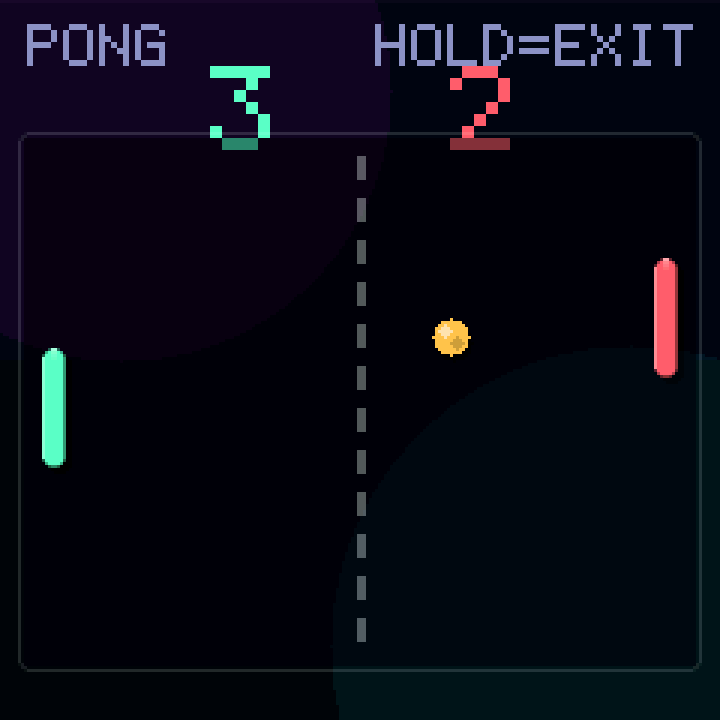
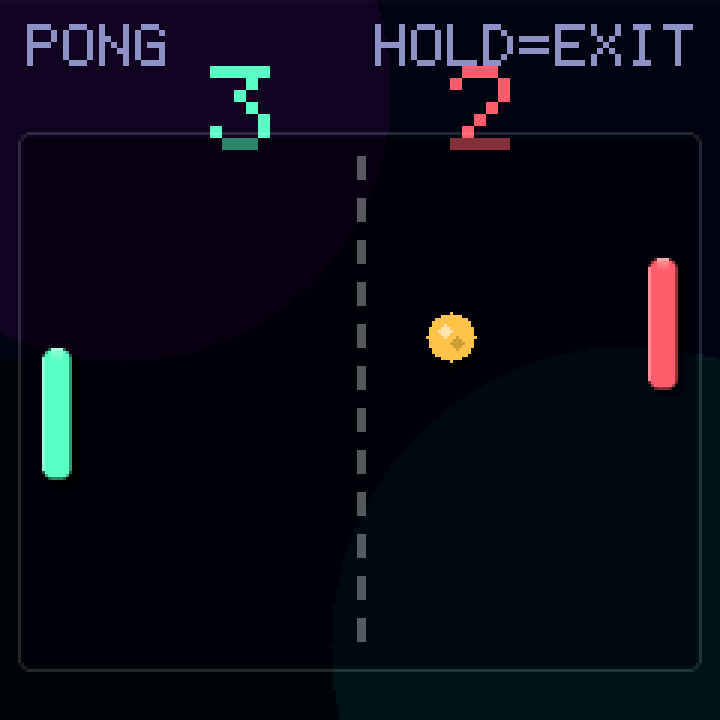
feat: everything as large as 240px allows, and a missing ceiling in Jumper
Measured rather than guessed. A 1.3in panel is 240px over 23.4mm, so at 4ft
the WHOLE SCREEN subtends 66 arcmin - about a thumbnail at arm's length - and
the largest text on it is 7.7. No sprite size fixes that; the honest design
distance for a desk dongle is one to two feet, where a 2048 tile is 34-51
arcmin and the big numerals clear the 20 that comfortable reading wants.

Within that, everything went to the largest the screen holds:

  jumper    12x9 of 20px, was 16x12 of 15 - exactly 240 wide and exactly the
            180 the HUD leaves, so it is the ceiling. Player 11x13 -> 15x17,
            coins 10px -> 14, and the physics re-solved for the bigger tile.
  invaders  alien 18x14 -> 24x18, cannon 22 -> 28, shots 3x8 -> 4x10. Eight
            columns of 24 is 224 in a 228 field, which is the ceiling there.
  pong      ball 12px -> 16, paddle 8x40 -> 10x44.
  pacman    dot 4px -> 6. It was the smallest thing in any game.
  breakout  ball 6px -> 10, which had been the smallest since it was written.

THE BUG. Jumper's hits() guarded x against the screen edges and not y, and
at() reports everything above row 0 as open air - so a jump from the top
platform carried the player seventeen pixels above the view and drew the
sprite over the HUD. Nothing stopped it because nothing was looking. y < 0 is
a ceiling now.

diff --git a/src/games/jumper/jumper.c b/src/games/jumper/jumper.c
@@ -33,9 +33,17 @@
 
 /* ---- geometry ----------------------------------------------------------- */
 
-#define TILE 15
-#define COLS 16
-#define ROWS 12
+/*
+ * 20px tiles over 12x9, not 15px over 16x12.
+ *
+ * A 240px panel read from across a desk is the constraint, not the level
+ * design: fewer, larger cells are the only lever there is. 12 columns of 20px
+ * is exactly 240 wide and nine rows is exactly the 180 the HUD leaves, so this
+ * is the largest tile the screen can hold without cropping.
+ */
+#define TILE 20
+#define COLS 12
+#define ROWS 9
 
 #define VIEW_X 0
 #define VIEW_Y 44
@@ -55,14 +63,14 @@ typedef int32_t fix_t;
  * no point running physics faster than anything can be shown. 2.26 tiles of
  * jump, 4.8 across, 12.5 tiles a second of running.
  */
-#define GRAVITY 132     /* 0.51 px/tick^2 */
-#define JUMP_V (-1580)  /* -6.2 px/tick   */
-#define RUN_V 768       /* 3.0 px/tick    */
+#define GRAVITY 133     /* 0.52 px/tick^2 */
+#define JUMP_V (-1733)  /* -6.8 px/tick   */
+#define RUN_V 896       /* 3.5 px/tick    */
 #define MAX_FALL 2048   /* 8.0 px/tick    */
 #define ENEMY_V 192     /* 0.75 px/tick   */
 
-#define PLAYER_W 11
-#define PLAYER_H 13
+#define PLAYER_W 15
+#define PLAYER_H 17
 #define MAX_ENEMIES 4
 #define LIVES 3
 
@@ -77,18 +85,15 @@ typedef int32_t fix_t;
  * top. Collect every coin and reach the flag.
  */
 static const char *const level[ROWS] = {
-	"                ",
-	"      F         ",
-	"   ========     ",
-	"  o          o  ",
-	" ====     ===== ",
-	"     o          ",
-	"        =====   ",
-	" =====     o    ",
-	"        E       ",
-	"   ======  =====",
-	"P      E     o  ",
-	"================",
+	"            ",
+	"     F      ",
+	"  =======   ",
+	" o        o ",
+	"====    ====",
+	"     o      ",
+	" ====   ====",
+	"P    E    o ",
+	"============",
 };
 
 struct mover {
@@ -159,8 +164,14 @@ static inline void take(int r, int c)
 
 static bool hits(int x, int y, int w, int h)
 {
-	if (x < 0 || x + w > COLS * TILE) {
-		return true; /* the screen edges are walls */
+	/*
+	 * y as well as x. Without the ceiling the jump from the top platform
+	 * carries the player seventeen pixels above the view, where it draws
+	 * over the HUD - the sprite leaves the playfield and nothing stops it,
+	 * because at() reports everything off the top as open air.
+	 */
+	if (x < 0 || x + w > COLS * TILE || y < 0) {
+		return true;
 	}
 
 	for (int r = y / TILE; r <= (y + h - 1) / TILE; r++) {
@@ -443,13 +454,13 @@ static void draw_player(int sx, int sy)
 {
 	const struct nexus_theme *t = nexus_theme();
 
-	nexus_draw_block(sx, sy, PLAYER_W, 5, 2, t->error);
-	nexus_draw_block(sx + 1, sy + 5, PLAYER_W - 2, 5, 1, t->warning);
-	nexus_draw_block(sx, sy + 10, PLAYER_W, 3, 1, t->accent_alt);
+	nexus_draw_block(sx, sy, PLAYER_W, 7, 2, t->error);
+	nexus_draw_block(sx + 1, sy + 7, PLAYER_W - 2, 6, 1, t->warning);
+	nexus_draw_block(sx, sy + 13, PLAYER_W, 4, 1, t->accent_alt);
 
-	/* A one-pixel eye on the side it faces: the cheapest thing that makes
-	 * a 11px sprite have a front. */
-	gfx_rect(sx + (g_j.facing > 0 ? PLAYER_W - 4 : 2), sy + 6, 2, 2,
+	/* An eye on the side it faces: the cheapest thing that gives a sprite
+	 * this small a front. */
+	gfx_rect(sx + (g_j.facing > 0 ? PLAYER_W - 5 : 3), sy + 8, 3, 3,
 		 NEXUS_C(0xFFFFFFu), GFX_OPAQUE);
 }
 
@@ -457,9 +468,9 @@ static void draw_enemy(int sx, int sy)
 {
 	const struct nexus_theme *t = nexus_theme();
 
-	nexus_draw_block(sx, sy + 2, PLAYER_W, PLAYER_H - 2, 4, t->success);
-	gfx_rect(sx + 2, sy + 5, 2, 2, NEXUS_C(0x0A0A12u), GFX_OPAQUE);
-	gfx_rect(sx + PLAYER_W - 4, sy + 5, 2, 2, NEXUS_C(0x0A0A12u),
+	nexus_draw_block(sx, sy + 3, PLAYER_W, PLAYER_H - 3, 5, t->success);
+	gfx_rect(sx + 3, sy + 7, 3, 3, NEXUS_C(0x0A0A12u), GFX_OPAQUE);
+	gfx_rect(sx + PLAYER_W - 6, sy + 7, 3, 3, NEXUS_C(0x0A0A12u),
 		 GFX_OPAQUE);
 }
 
@@ -515,14 +526,14 @@ static void jumper_draw(void)
 				if (!taken(r, c)) {
 					nexus_draw_orb(x + TILE / 2,
 						       y + TILE / 2,
-						       (g_j.anim & 8) ? 4 : 5,
+						       (g_j.anim & 8) ? 6 : 7,
 						       t->warning);
 				}
 				break;
 			case 'F':
-				gfx_rect(x + TILE / 2 - 1, y, 3, TILE,
+				gfx_rect(x + TILE / 2 - 2, y, 4, TILE,
 					 t->value, GFX_OPAQUE);
-				nexus_draw_block(x + TILE / 2 + 2, y, 9, 7, 1,
+				nexus_draw_block(x + TILE / 2 + 2, y, 12, 10, 2,
 						 g_j.coins_left ? t->muted
 								: t->success);
 				break;

diff --git a/scripts/render_ui.py b/scripts/render_ui.py
@@ -857,7 +857,7 @@ def pacman(cv, t, pac=(8, 6), pdir=1, ghosts=((4, 6), (3, 4), (6, 8)),
             elif (r, c) in eaten:
                 continue
             elif ch == '.':
-                cv.rect(x + CELL // 2 - 2, y + CELL // 2 - 2, 4, 4,
+                cv.rect(x + CELL // 2 - 3, y + CELL // 2 - 3, 6, 6,
                         t['caption'])
             elif ch == 'o' and not (anim & 2):
                 cv.disc(x + CELL // 2, y + CELL // 2, 5, t['value'])
@@ -941,7 +941,7 @@ JMP_LEVEL = re.findall(
     .split('\n};')[0])
 
 
-def jumper(cv, t, player=(9, 3), facing=1, taken=(), dead=(), score='700',
+def jumper(cv, t, player=(7, 2), facing=1, taken=(), dead=(), score='700',
            lives=3, anim=0):
     u, K = UI(cv, t), JMP
     TILE, VY = K['TILE'], K['VIEW_Y']
@@ -962,23 +962,24 @@ def jumper(cv, t, player=(9, 3), facing=1, taken=(), dead=(), score='700',
                 u.block(x, y, TILE, TILE, 0,
                         mix(t['accent'], t['accent_alt'], min(255, r * 20)))
             elif ch == 'o' and (r, c) not in taken:
-                u.orb(x + TILE // 2, y + TILE // 2, 5, t['warning'])
+                u.orb(x + TILE // 2, y + TILE // 2, 7, t['warning'])
             elif ch == 'F':
-                cv.rect(x + TILE // 2 - 1, y, 3, TILE, t['value'])
-                u.block(x + TILE // 2 + 2, y, 9, 7, 1, t['muted'])
+                cv.rect(x + TILE // 2 - 2, y, 4, TILE, t['value'])
+                u.block(x + TILE // 2 + 2, y, 12, 10, 2, t['muted'])
             elif ch == 'E' and (r, c) not in dead:
                 PW, PH = K['PLAYER_W'], K['PLAYER_H']
-                u.block(x, y + TILE - PH + 2, PW, PH - 2, 4, t['success'])
-                cv.rect(x + 2, y + TILE - PH + 5, 2, 2, C(0x0A0A12))
-                cv.rect(x + PW - 4, y + TILE - PH + 5, 2, 2, C(0x0A0A12))
+                ey = y + TILE - PH
+                u.block(x, ey + 3, PW, PH - 3, 5, t['success'])
+                cv.rect(x + 3, ey + 7, 3, 3, C(0x0A0A12))
+                cv.rect(x + PW - 6, ey + 7, 3, 3, C(0x0A0A12))
 
     PW, PH = K['PLAYER_W'], K['PLAYER_H']
     sx = player[1] * TILE
     sy = VY + player[0] * TILE + TILE - PH
-    u.block(sx, sy, PW, 5, 2, t['error'])
-    u.block(sx + 1, sy + 5, PW - 2, 5, 1, t['warning'])
-    u.block(sx, sy + 10, PW, 3, 1, t['accent_alt'])
-    cv.rect(sx + (PW - 4 if facing > 0 else 2), sy + 6, 2, 2, 0xFFFF)
+    u.block(sx, sy, PW, 7, 2, t['error'])
+    u.block(sx + 1, sy + 7, PW - 2, 6, 1, t['warning'])
+    u.block(sx, sy + 13, PW, 4, 1, t['accent_alt'])
+    cv.rect(sx + (PW - 5 if facing > 0 else 3), sy + 8, 3, 3, 0xFFFF)
 
 
 # --------------------------------------------------------------- invaders
@@ -1012,13 +1013,13 @@ def invaders(cv, t, dead=((0, 0), (0, 7), (1, 3)), fx=None, fy=None,
             x, y = fx + c * (AW + 4), fy + r * (AH + 6)
             body = mix(t['accent'], t['accent_alt'],
                        r * 255 // (K['ROWS'] - 1))
-            u.block(x + 2, y, AW - 4, AH - 4, 3, body)
-            cv.rect(x, y + AH - 5, 4, 4, body)
-            cv.rect(x + AW - 4, y + AH - 7, 4, 4, body)
-            cv.rect(x + 6, y + 4, 3, 3, C(0x0A0A12))
-            cv.rect(x + AW - 9, y + 4, 3, 3, C(0x0A0A12))
+            u.block(x + 3, y, AW - 6, AH - 5, 4, body)
+            cv.rect(x, y + AH - 6, 5, 6, body)
+            cv.rect(x + AW - 5, y + AH - 9, 5, 6, body)
+            cv.rect(x + 7, y + 5, 4, 4, C(0x0A0A12))
+            cv.rect(x + AW - 11, y + 5, 4, 4, C(0x0A0A12))
 
-    u.block(120, K['CANNON_Y'] - 40, 3, 8, 1, t['warning'])
+    u.block(120, K['CANNON_Y'] - 40, 4, 10, 1, t['warning'])
     u.block(cannon, K['CANNON_Y'] + 4, K['CANNON_W'], K['CANNON_H'] - 4, 2,
             t['success'])
     u.block(cannon + K['CANNON_W'] // 2 - 2, K['CANNON_Y'], 4, 6, 1,

diff --git a/src/games/invaders/invaders.c b/src/games/invaders/invaders.c
@@ -31,8 +31,8 @@
 
 #define COLS 8
 #define ROWS 4
-#define ALIEN_W 18
-#define ALIEN_H 14
+#define ALIEN_W 24
+#define ALIEN_H 18
 #define STEP_X 6
 #define STEP_Y 12
 
@@ -46,13 +46,13 @@
 #define HUD_Y 20
 #define HUD_H 22
 
-#define CANNON_W 22
-#define CANNON_H 12
+#define CANNON_W 28
+#define CANNON_H 14
 #define CANNON_Y (FIELD_B - CANNON_H - 2)
 #define CANNON_STEP 9
 
-#define SHOT_W 3
-#define SHOT_H 8
+#define SHOT_W 4
+#define SHOT_H 10
 #define MAX_BOMBS 3
 
 #define LIVES 3
@@ -354,17 +354,18 @@ static void draw_alien(int x, int y, int row)
 
 	/* Body, then two legs that swap on alternate steps - the whole
 	 * animation of the original, and it costs two rects. */
-	nexus_draw_block(x + 2, y, ALIEN_W - 4, ALIEN_H - 4, 3, body);
+	nexus_draw_block(x + 3, y, ALIEN_W - 6, ALIEN_H - 5, 4, body);
 
-	int lift = (g_f.anim & 8) ? 0 : 2;
+	int lift = (g_f.anim & 8) ? 0 : 3;
 
-	gfx_rect(x, y + ALIEN_H - 5 - lift, 4, 4, body, GFX_OPAQUE);
-	gfx_rect(x + ALIEN_W - 4, y + ALIEN_H - 5 - (2 - lift), 4, 4, body,
+	gfx_rect(x, y + ALIEN_H - 6 - lift, 5, 6, body, GFX_OPAQUE);
+	gfx_rect(x + ALIEN_W - 5, y + ALIEN_H - 6 - (3 - lift), 5, 6, body,
 		 GFX_OPAQUE);
 
-	/* Eyes. Two pixels is all it takes to make it face you. */
-	gfx_rect(x + 6, y + 4, 3, 3, NEXUS_C(0x0A0A12u), GFX_OPAQUE);
-	gfx_rect(x + ALIEN_W - 9, y + 4, 3, 3, NEXUS_C(0x0A0A12u), GFX_OPAQUE);
+	/* Eyes. Three pixels is what it takes to still read as a face from
+	 * the other side of a desk. */
+	gfx_rect(x + 7, y + 5, 4, 4, NEXUS_C(0x0A0A12u), GFX_OPAQUE);
+	gfx_rect(x + ALIEN_W - 11, y + 5, 4, 4, NEXUS_C(0x0A0A12u), GFX_OPAQUE);
 }
 
 static void invaders_draw(void)

diff --git a/src/games/pacman/pacman.c b/src/games/pacman/pacman.c
@@ -569,8 +569,11 @@ static void pacman_draw(void)
 				gfx_hline(x, y, CELL, t->edge_hi, 40);
 				break;
 			case DOT:
-				gfx_rect(x + CELL / 2 - 2, y + CELL / 2 - 2, 4,
-					 4, t->caption, GFX_OPAQUE);
+				/* 6px, not 4. A dot is the smallest thing on
+				 * the board and therefore the first thing to
+				 * disappear at any distance. */
+				gfx_rect(x + CELL / 2 - 3, y + CELL / 2 - 3, 6,
+					 6, t->caption, GFX_OPAQUE);
 				break;
 			case PELLET:
 				/* Blinks, so it reads as the thing worth

diff --git a/src/games/breakout/breakout.c b/src/games/breakout/breakout.c
@@ -83,7 +83,9 @@ typedef int32_t fix_t;
 #define HUD_Y 20
 #define HUD_H 22
 
-#define BALL_R 3
+/* 5, not 3. A 6px ball was the smallest moving thing in any game here and
+ * the first to disappear at any distance; 10px still clears the paddle. */
+#define BALL_R 5
 
 /*
  * Speed and tick rate come from Kconfig so they can be tuned from a config

diff --git a/src/games/pong/pong.c b/src/games/pong/pong.c
@@ -43,10 +43,10 @@ typedef int32_t fix_t;
 #define HUD_Y 20
 #define HUD_H 22
 
-#define PAD_W 8
-#define PAD_H 40
+#define PAD_W 10
+#define PAD_H 44
 #define PAD_INSET 6
-#define BALL_R 6
+#define BALL_R 8
 
 #define WIN_SCORE 7
 
